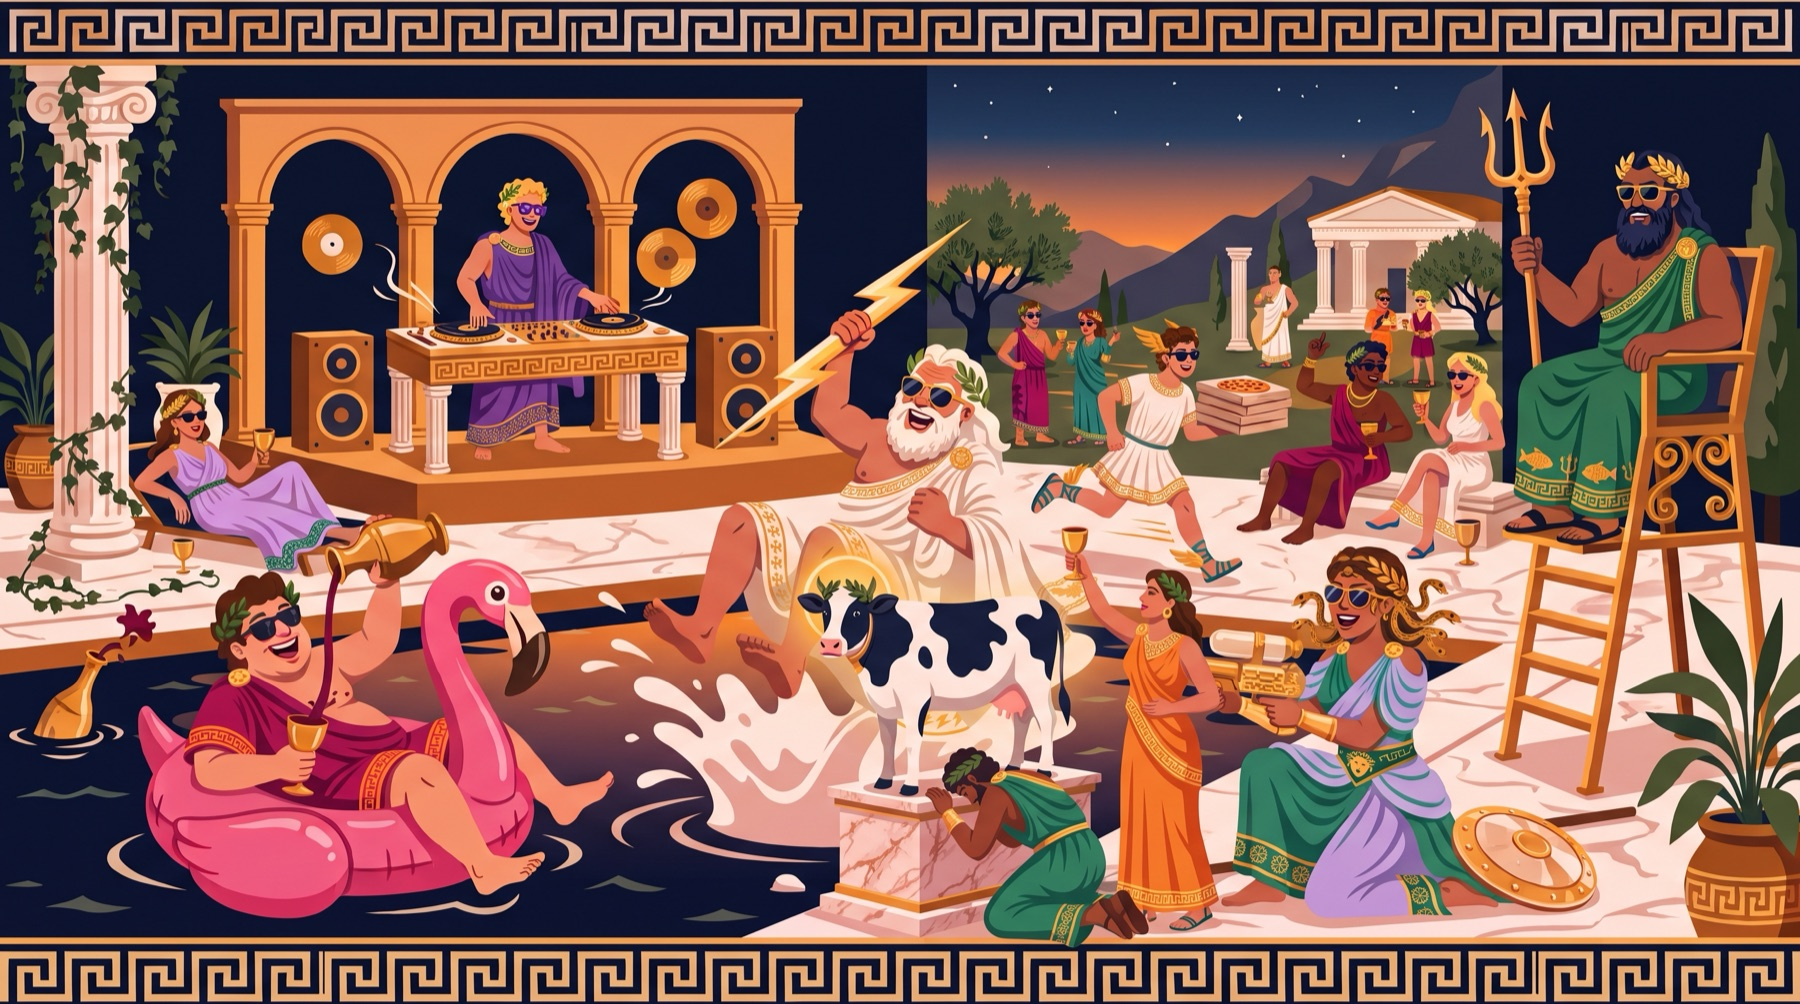
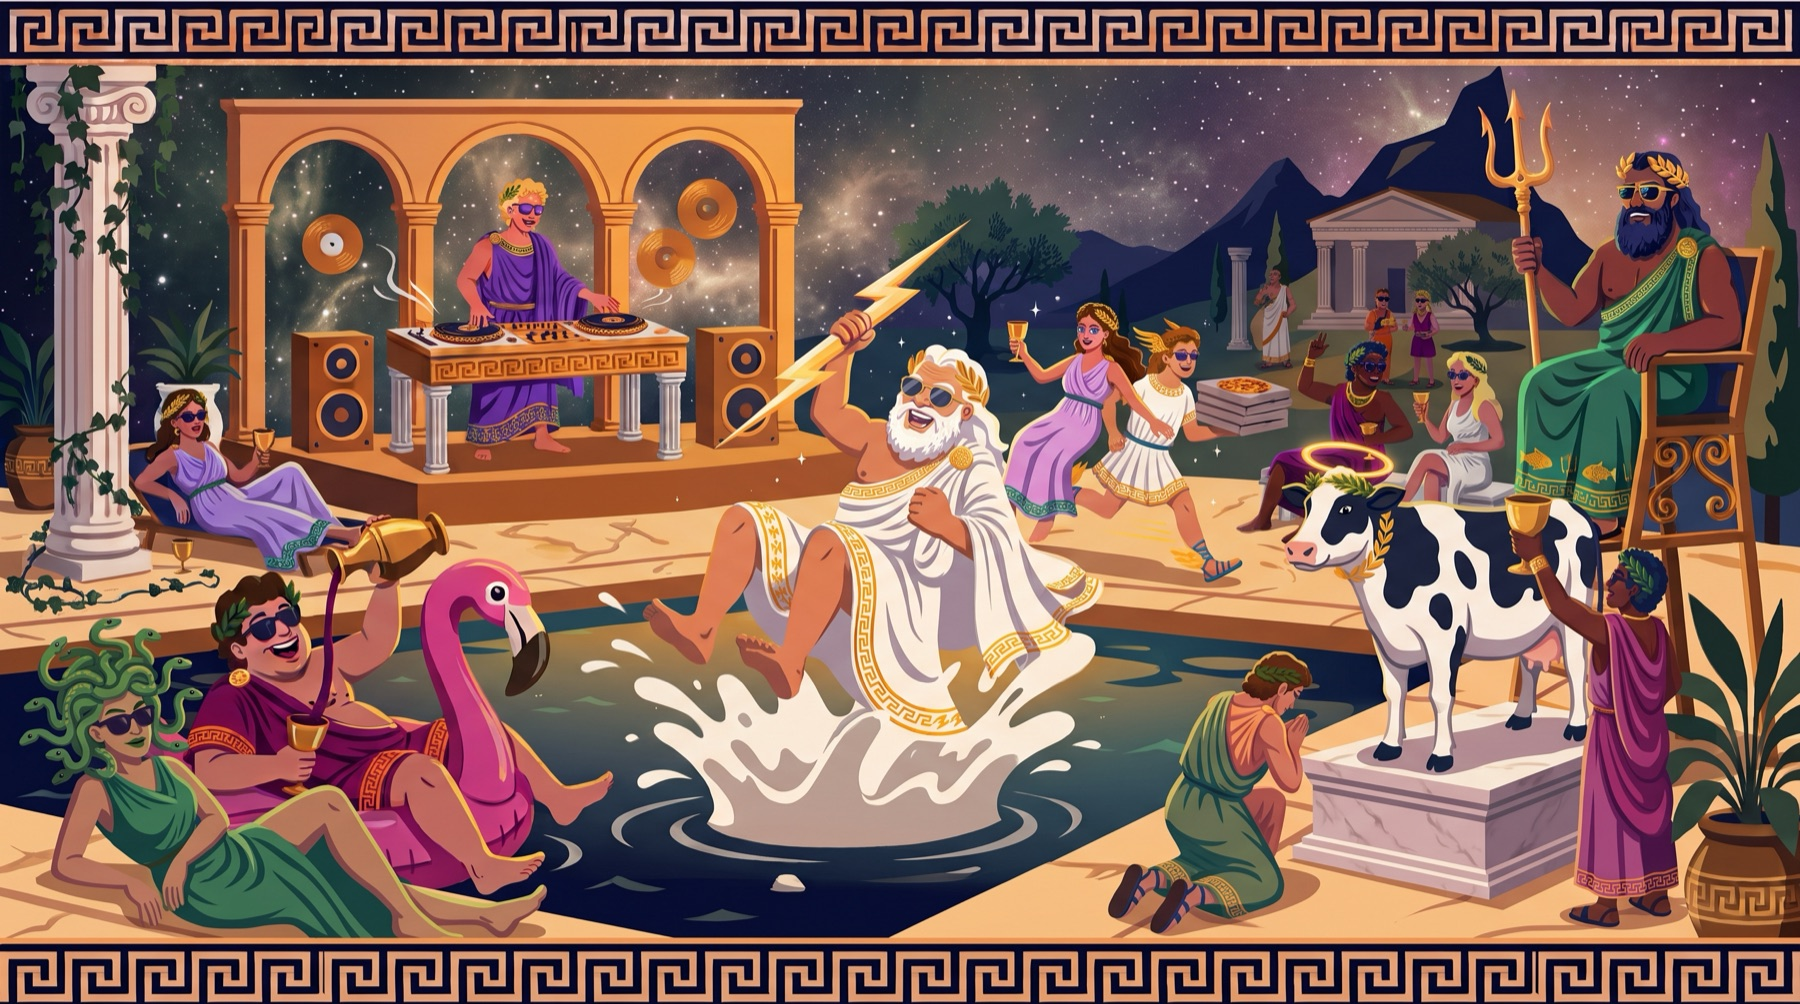
Trilogy v2: proportion fix (life-size cow, scaled aliens), Medusa kept, shorter Dionysia lore

diff --git a/index.html b/index.html
@@ -465,7 +465,7 @@
       </div>
 
       <div class="lore">
-        <p>Greek Gods — correct. The only open question is <b>which god gets the keys.</b> And the scholars are unanimous: when Olympus needed a real night out, nobody called Zeus. They called Dionysus — inventor of the mystery rite, the masked festival, and, two millennia early and without credit, the after-party.</p>
+        <p>Greek Gods — correct. The only question is <b>which god gets the keys</b>: Dionysus — inventor of the masked festival and, two millennia early, the after-party.</p>
         <p>The mechanic that runs the whole weekend: <b>everyone gets anointed.</b> At arrival, each guest is ordained a god of something weirdly specific — name-scroll, laurel, no appeals process. Thirty-two mortals walk in; thirty-two gods sit down to dinner. The Committee holds the sacred drafts.</p>
         <p>Around that: gold, ivy, masks at nightfall, and a rave the ancients would recognize on sight, because they held it first.</p>
       </div>